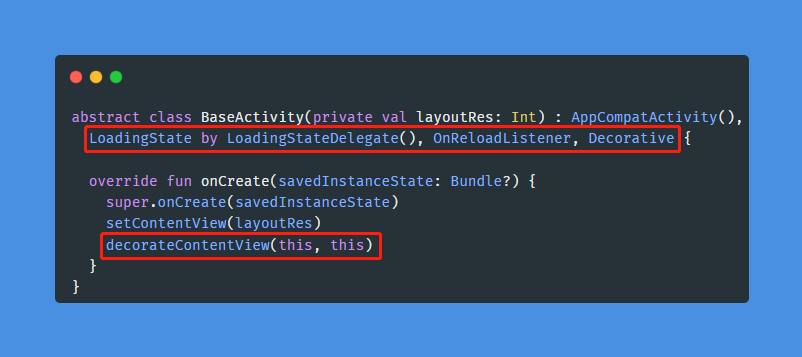
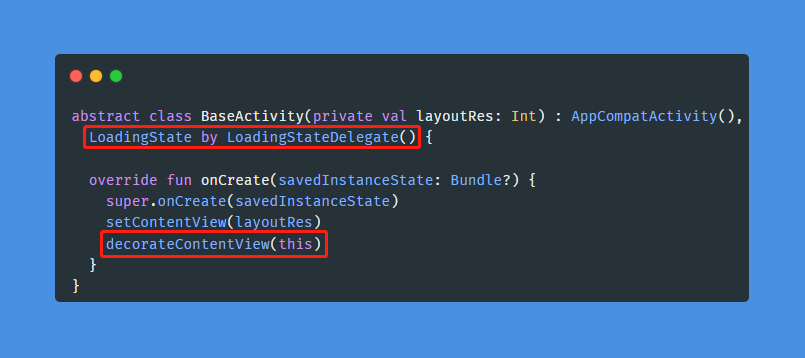
Prepare for release 4.1.0

Changed region(s): [[0.0623, 0.1232, 0.9352, 0.8627], [0.0935, 0.4622, 0.6858, 0.7703], [0.0623, 0.1849, 0.1559, 0.2465]]

diff --git a/docs/zh/delegate.md b/docs/zh/delegate.md
@@ -8,14 +8,14 @@
 
 ```groovy
 dependencies {
-  implementation 'com.github.DylanCaiCoding.LoadingStateView:loadingstateview-ktx:4.0.2'
+  implementation 'com.github.DylanCaiCoding.LoadingStateView:loadingstateview-ktx:4.1.0'
 }
 ```
 
 修改步骤如下：
 
-1. 实现 `LoadingState by LoadingStateDelegate(), OnReloadListener, Decorative` 接口，其中 `LoadingState` 接口委托给了 `LoadingStateDelegate` 代理类。
-2. 在 Activity 的 `setContentView()` 方法后执行 `decorateContentView(this, this)`。在 Fragment 的 `onCreateView()` 返回 `view.decorate(this, this)`。
+1. 实现 `LoadingState by LoadingStateDelegate()` 。
+2. 在 Activity 的 `setContentView()` 方法后执行 `decorateContentView(this)`。在 Fragment 的 `onCreateView()` 返回 `view.decorate(this)`。
 
 <!-- tabs:start -->
 
@@ -28,12 +28,12 @@ dependencies {
 
 ```kotlin
 abstract class BaseActivity(private val layoutRes: Int) : AppCompatActivity(),
-  LoadingState by LoadingStateDelegate(), OnReloadListener, Decorative {
+  LoadingState by LoadingStateDelegate() {
 
   override fun onCreate(savedInstanceState: Bundle?) {
     super.onCreate(savedInstanceState)
     setContentView(layoutRes)
-    decorateContentView(this, this)
+    decorateContentView(this)
   }
 }
 ```
@@ -49,13 +49,13 @@ abstract class BaseActivity(private val layoutRes: Int) : AppCompatActivity(),
 
 ```kotlin
 abstract class BaseFragment(private val layoutRes: Int) : Fragment(),
-  LoadingState by LoadingStateDelegate(), OnReloadListener, Decorative {
+  LoadingState by LoadingStateDelegate() {
 
   override fun onCreateView(
     inflater: LayoutInflater, container: ViewGroup?, savedInstanceState: Bundle?
   ): View? {
     val root = inflater.inflate(layoutRes, container, false)
-    return root.decorate(this, this)
+    return root.decorate(this)
   }
 }
 ```

diff --git a/docs/zh/viewbinding.md b/docs/zh/viewbinding.md
@@ -43,13 +43,12 @@ implementation 'com.github.DylanCaiCoding.ViewBindingKTX:viewbinding-base:2.1.0'
 
 ```kotlin
 abstract class BaseBindingActivity<VB : ViewBinding> : AppCompatActivity(),
-  LoadingState by LoadingStateDelegate(), OnReloadListener, Decorative,
-  ActivityBinding<VB> by ActivityBindingDelegate() {
+  LoadingState by LoadingStateDelegate(), ActivityBinding<VB> by ActivityBindingDelegate() {
 
   override fun onCreate(savedInstanceState: Bundle?) {
     super.onCreate(savedInstanceState)
     setContentViewWithBinding()
-    binding.root.decorate(this, this)
+    binding.root.decorate(this)
   }
 }
 ```
@@ -65,13 +64,12 @@ abstract class BaseBindingActivity<VB : ViewBinding> : AppCompatActivity(),
 
 ```kotlin
 abstract class BaseBindingFragment<VB : ViewBinding> : Fragment(),
-  LoadingState by LoadingStateDelegate(), OnReloadListener, Decorative,
-  FragmentBinding<VB> by FragmentBindingDelegate() {
+  LoadingState by LoadingStateDelegate(), FragmentBinding<VB> by FragmentBindingDelegate() {
 
   override fun onCreateView(
     inflater: LayoutInflater, container: ViewGroup?, savedInstanceState: Bundle?
   ): View? {
-    return createViewWithBinding(inflater, container).decorate(this, this)
+    return createViewWithBinding(inflater, container).decorate(this)
   }
 }
 ```

diff --git a/README.md b/README.md
@@ -55,10 +55,10 @@ Add dependencies in your module `build.gradle` :
 ```groovy
 dependencies {
     // java
-    implementation 'com.github.DylanCaiCoding.LoadingStateView:loadingstateview:4.0.2'
+    implementation 'com.github.DylanCaiCoding.LoadingStateView:loadingstateview:4.1.0'
 
     // kotlin
-    implementation 'com.github.DylanCaiCoding.LoadingStateView:loadingstateview-ktx:4.0.2'
+    implementation 'com.github.DylanCaiCoding.LoadingStateView:loadingstateview-ktx:4.1.0'
 }
 ```
 

diff --git a/docs/README.md b/docs/README.md
@@ -53,10 +53,10 @@ allprojects {
 ```groovy
 dependencies {
     // java
-    implementation 'com.github.DylanCaiCoding.LoadingStateView:loadingstateview:4.0.2'
+    implementation 'com.github.DylanCaiCoding.LoadingStateView:loadingstateview:4.1.0'
     
     // kotlin
-    implementation 'com.github.DylanCaiCoding.LoadingStateView:loadingstateview-ktx:4.0.2'
+    implementation 'com.github.DylanCaiCoding.LoadingStateView:loadingstateview-ktx:4.1.0'
 }
 ```
 

diff --git a/README_ZH.md b/README_ZH.md
@@ -57,10 +57,10 @@ allprojects {
 ```groovy
 dependencies {
     // java
-    implementation 'com.github.DylanCaiCoding.LoadingStateView:loadingstateview:4.0.2'
+    implementation 'com.github.DylanCaiCoding.LoadingStateView:loadingstateview:4.1.0'
 
     // kotlin
-    implementation 'com.github.DylanCaiCoding.LoadingStateView:loadingstateview-ktx:4.0.2'
+    implementation 'com.github.DylanCaiCoding.LoadingStateView:loadingstateview-ktx:4.1.0'
 }
 ```
 
